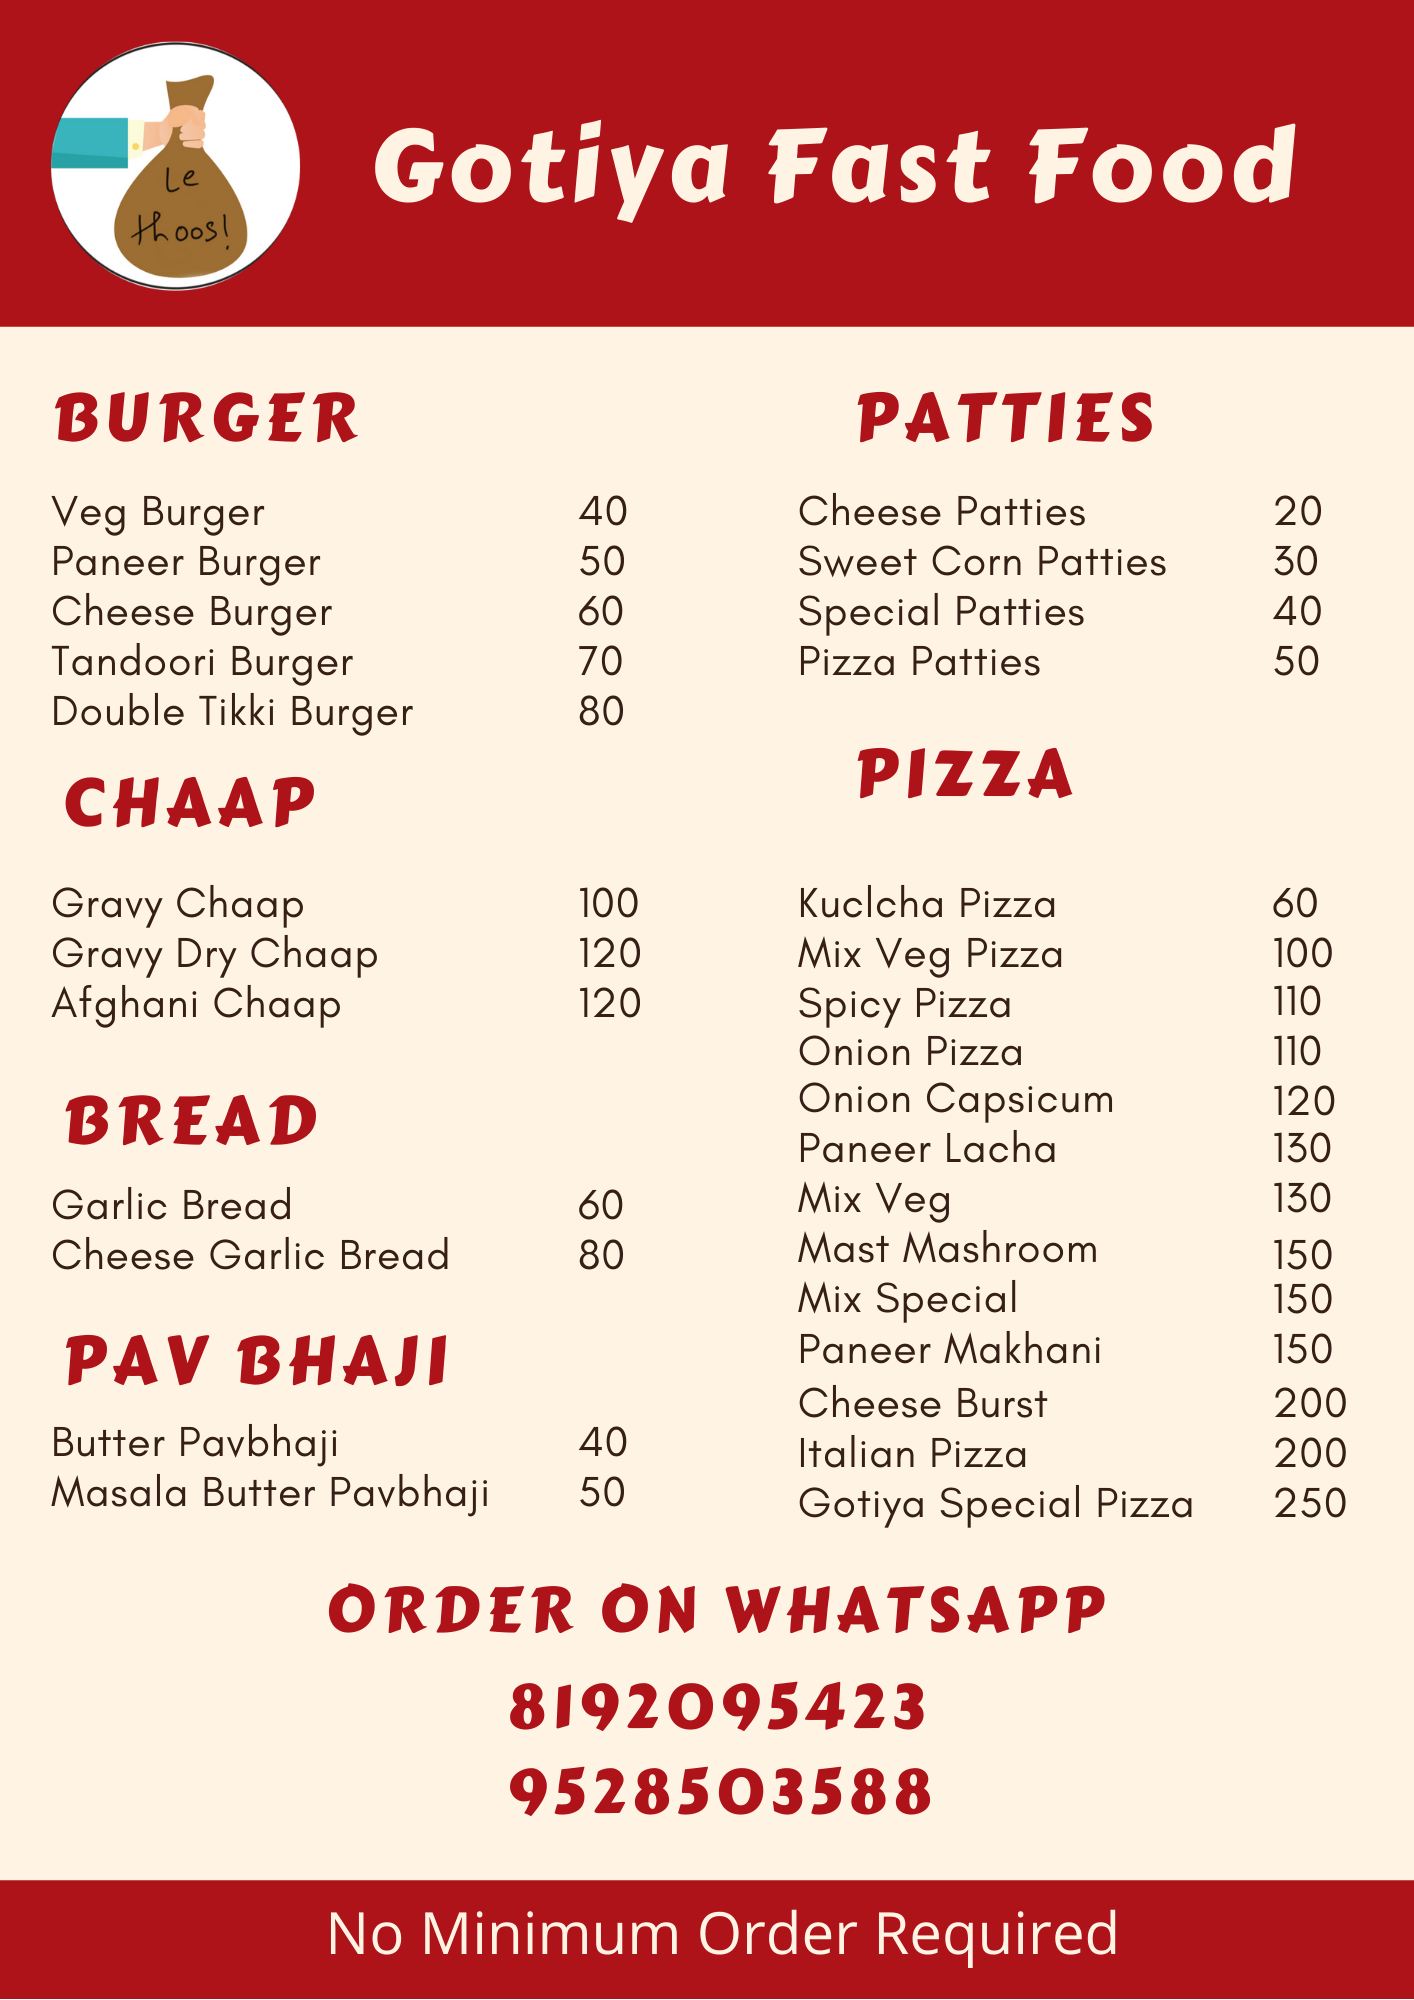
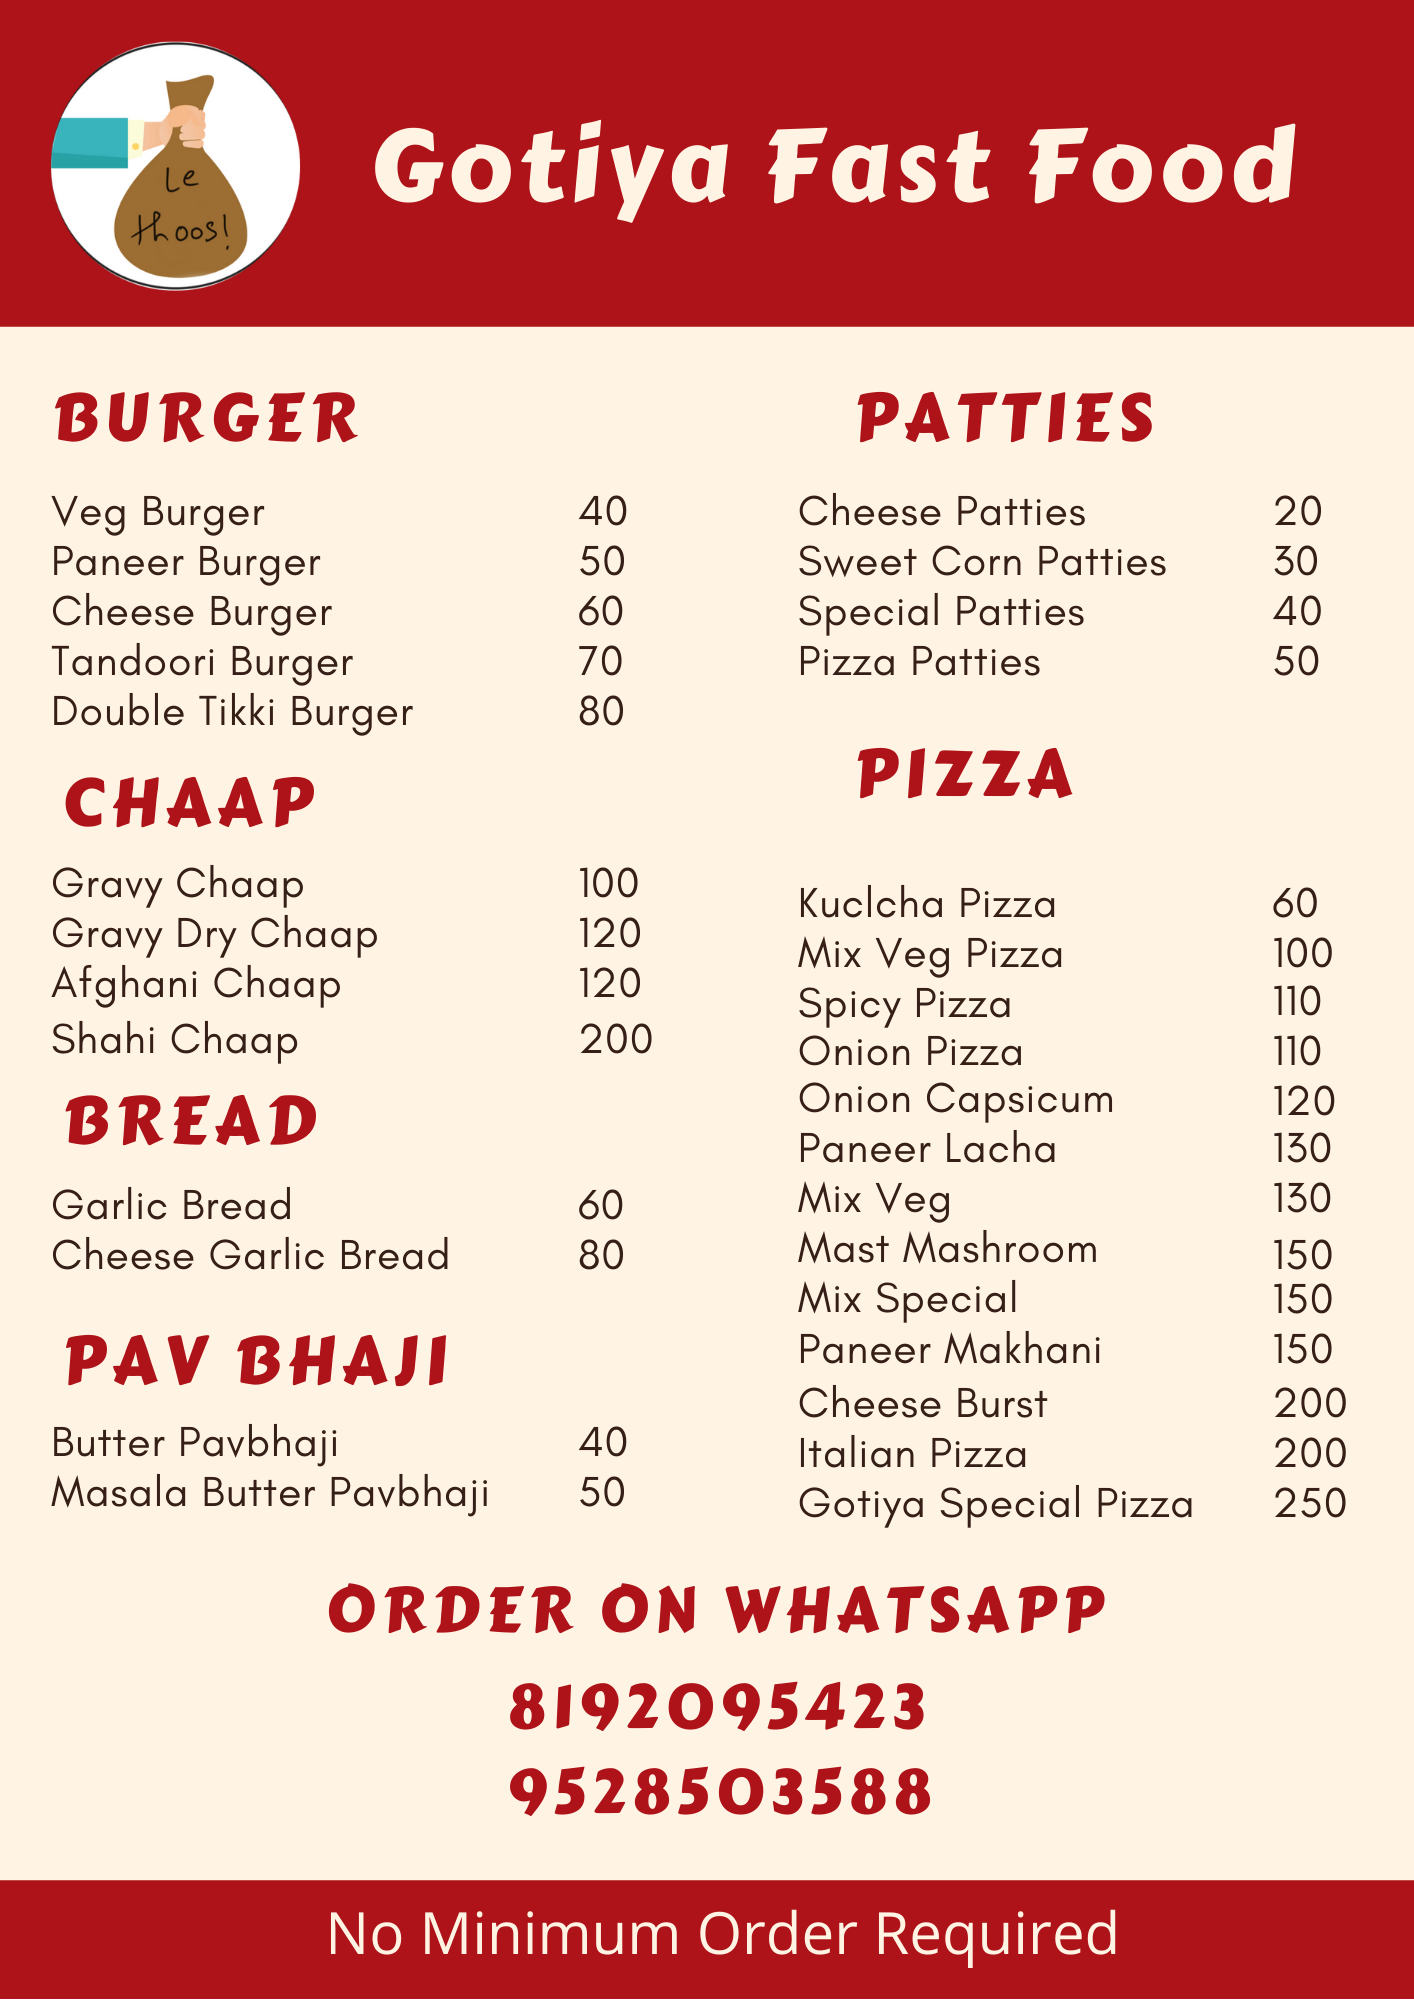
gotiya menu change, king omelette menu change

Changed region(s): [[0.0311, 0.434, 0.2801, 0.527], [0.4045, 0.434, 0.4668, 0.527]]

diff --git a/kingOmelette.html b/kingOmelette.html
@@ -35,6 +35,11 @@
 					<img class="shop-menu" src="./images/Menus/king Omelette/King Omelette.png">
 				</div>
 			</div>
+			<div class="col-12 col-sm-12 col-md-6 col-lg-6 col-xl-6">
+				<div class="menu-element">
+					<img class="shop-menu" src="./images/Menus/king Omelette/Copy of King Omelette.png">
+				</div>
+			</div>
 		</div>
 	</div>
 	<div class="float"><a href="https://api.whatsapp.com/send?phone=918192095423"><img
